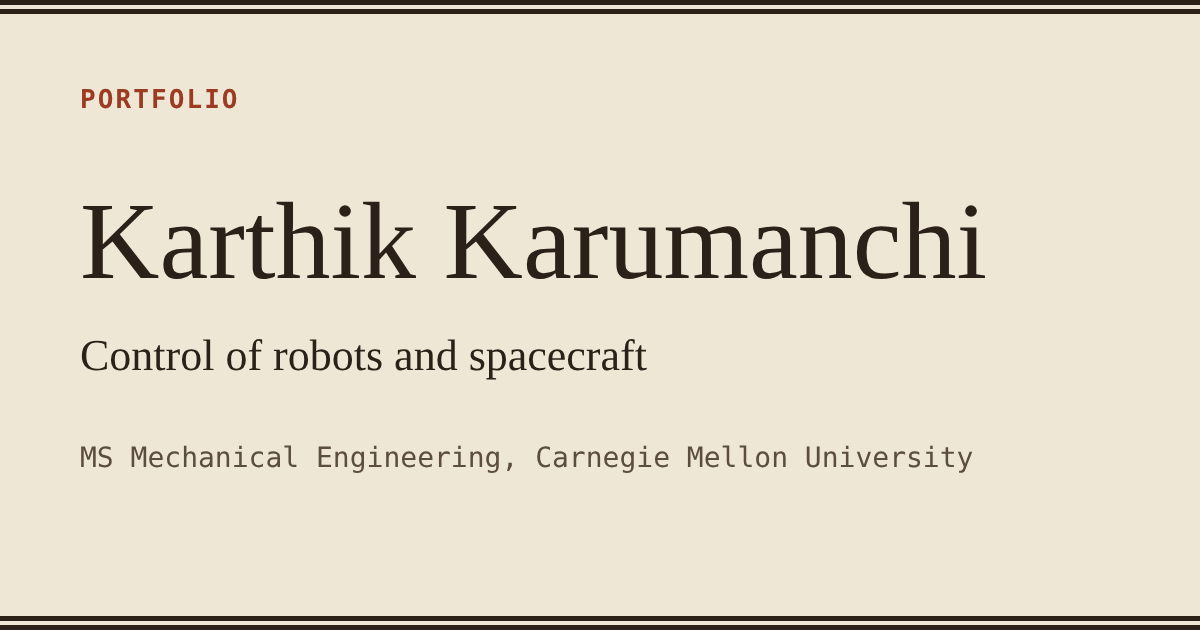
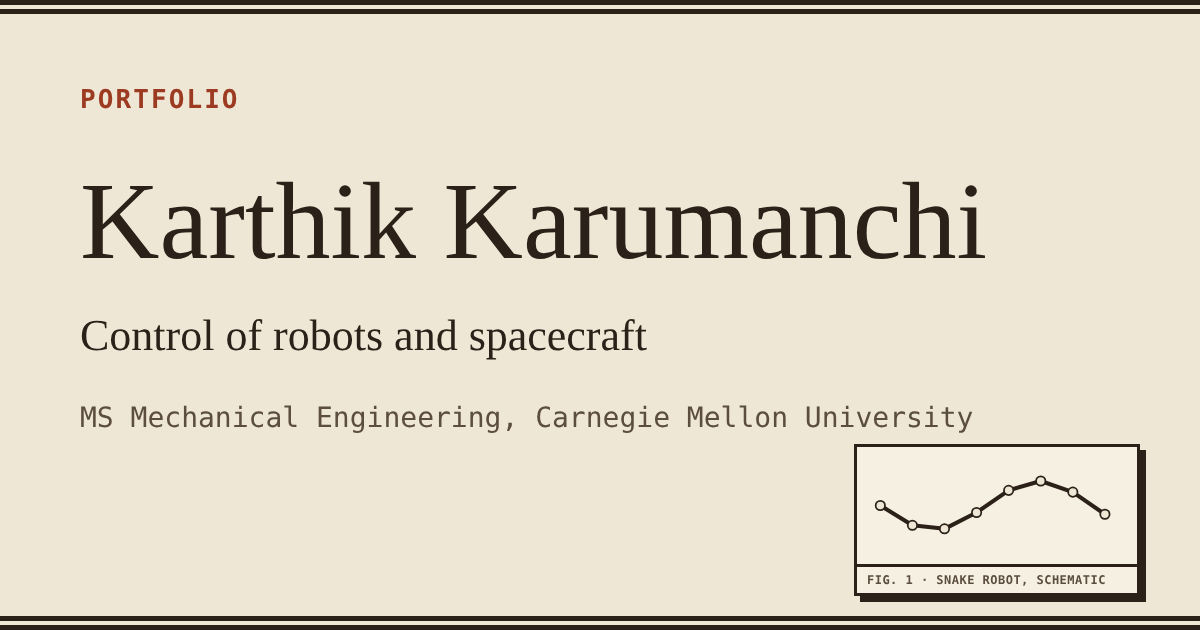
Cycle 16: og.png with snake plate, log declines
Claude-Session: https://claude.ai/code/session_01R4mJEgSoJDCYnE4E7FRXWw

diff --git a/tools/make_og.py b/tools/make_og.py
@@ -1,13 +1,15 @@
 #!/usr/bin/env python3
 """Renders assets/og.png (1200x630 social card) from plain text; no remote assets."""
-import os, sys
+import os, sys, math
 from playwright.sync_api import sync_playwright
 OUT = os.path.join(os.path.dirname(os.path.abspath(__file__)), "..", "assets", "og.png")
+pts = [(40 + i * 55, 100 + 42 * math.sin(i * 0.95)) for i in range(8)]
+SNAKE = "".join(f'<line x1="{a[0]:.0f}" y1="{a[1]:.0f}" x2="{b[0]:.0f}" y2="{b[1]:.0f}" stroke="#2b2118" stroke-width="7" stroke-linecap="round"/>' for a, b in zip(pts, pts[1:])) + "".join(f'<circle cx="{x:.0f}" cy="{y:.0f}" r="8" fill="#efe7d6" stroke="#2b2118" stroke-width="3"/>' for x, y in pts)
 HTML = """<body style="margin:0;width:1200px;height:630px;background:#efe7d6;color:#2b2118;font-family:Georgia,'Times New Roman',serif;box-sizing:border-box;padding:70px 80px;border-top:14px double #2b2118;border-bottom:14px double #2b2118">
 <div style="font:600 26px monospace;letter-spacing:.08em;color:#9c3a22">PORTFOLIO</div>
-<div style="font-size:110px;line-height:1.05;margin-top:70px">Karthik Karumanchi</div>
+<div style="font-size:110px;line-height:1.05;margin-top:50px">Karthik Karumanchi</div>
 <div style="font-size:44px;margin-top:30px">Control of robots and spacecraft</div>
-<div style="font:28px monospace;margin-top:60px;color:#5b4e40">MS Mechanical Engineering, Carnegie Mellon University</div></body>"""
+<div style="font:28px monospace;margin-top:40px;color:#5b4e40">MS Mechanical Engineering, Carnegie Mellon University</div><div style="position:absolute;right:60px;bottom:34px;width:280px;border:3px solid #2b2118;background:#f6f0e2;box-shadow:6px 6px 0 #2b2118"><svg viewBox="0 0 480 200" width="280" height="117" style="display:block">%s</svg><div style="font:600 12px monospace;letter-spacing:.04em;color:#5b4e40;border-top:3px solid #2b2118;padding:6px 10px">FIG. 1 &middot; SNAKE ROBOT, SCHEMATIC</div></div></body>""" % SNAKE
 with sync_playwright() as p:
     b = p.chromium.launch(); pg = b.new_page(viewport={"width": 1200, "height": 630})
     pg.set_content(HTML); pg.screenshot(path=OUT); b.close()

diff --git a/agents/critique-latest.md b/agents/critique-latest.md
@@ -1,65 +1,65 @@
-# Critique, 2026-10-25 (after cycle 14)
+# Critique, 2026-10-25 (cycle 16, reviewing commit 5dd7e20 "Cycle 15")
 
 ## Sources
-My WebFetch call (w3.org SC 2.5.8) was blocked by the permission layer, and I have no search tool in this run. I therefore did not read any source this cycle. The pointers below are from memory and are UNVERIFIED; no finding depends on them. Findings rest on what I measured and saw.
-- WCAG 2.2 SC 2.5.8 Target Size (Minimum) and SC 2.4.11 Focus Not Obscured: https://www.w3.org/WAI/WCAG22/Understanding/target-size-minimum.html
-- web.dev font best practices (self-host, preload, fallback metrics): https://web.dev/articles/font-best-practices
-- MDN `<details>` element (disclosure affordance, accessibility): https://developer.mozilla.org/en-US/docs/Web/HTML/Element/details
-- Topic not covered in earlier cycles: disclosure widgets and staleness of dates (credibility). Earlier cycles covered fonts, contrast, tap targets, SEO basics.
+WebFetch was refused by the permission layer (w3.org focus-appearance page, blocked, not retried) and I have no search tool, so I read NO source this cycle. Pointers below are from memory and UNVERIFIED; no finding depends on them.
+- WCAG 2.2 SC 2.4.7 / 2.4.11 / 2.4.13 focus: https://www.w3.org/WAI/WCAG22/Understanding/focus-appearance.html (blocked)
+- Nielsen Norman Group on portfolios and proof of results (recruiters scan for outcomes): https://www.nngroup.com/ (unverified)
+- web.dev font best practices: https://web.dev/articles/font-best-practices
+Topic this cycle: proof/outcome content on the featured project, and staleness. Earlier cycles covered fonts, contrast, tap targets, SEO basics, disclosure widgets.
 
-Measured: `python3 tools/check.py . agents/shots` ran 13 pages x 3 viewports x 2 themes, all OK (no overflow, tap-target, contrast, alt or h1 failures; 1 to 10 Wix images "not loaded", sandbox). Repo checks: every page still hotlinks wixstatic/filesusr (2 to 9 matches per page, 404 included). `STATUS = ""` in build/build.py. Fonts still load from the Google Fonts stylesheet. assets/ holds only og.png, site.js, style.css. 8 `rel="noopener"` on home. 13 unique titles, sitemap has 12 URLs, robots.txt present. The live site returned 403 to curl from the sandbox proxy, so I could not check it live. I looked at: home phone light and desktop light, About desktop dark, Hasselhoff phone light, Projects tablet light.
+Measured: `git log -1` = 5dd7e20 (Cycle 15). `tools/check.py . agents/shots` ran 13 pages x 3 viewports x 2 themes, every page OK (Wix images "not loaded" is the sandbox). Repo: `STATUS = ""` (build/build.py:253). Wix/filesusr hotlinks on every page (2 to 9 each; 404 has 2). Fonts still from the Google Fonts stylesheet. Aerobraking page has 3 `width=` matches, but its Wix `<img>` tags have none. sitemap 12 URLs, robots.txt names the sitemap, 1 JSON-LD block on home. Live site not checked (proxy). Viewed: home phone and desktop (light), Hasselhoff phone (light), About desktop (dark), Snake robots phone (light). Screenshots use fallback serif because Google Fonts is blocked in the sandbox; typography judged with that caveat.
 
 ## Scores
-- AI-tell: 3/10 (unchanged from last cycle). Moved this cycle: the Start-here row now carries a plate, so row 01 is no longer anatomically identical to rows 02 to 09 (small improvement, would be 2.5 if the plate showed a snake). Not moved: cream paper, serif, terracotta and mono labels is still the "tasteful editorial" template, and rows 02 to 09 are identical title / blurb / index / tag rows. Specific, authored things: the struck-through "three weeks", the 99 s stamp, Fig. N plates with sheet tags, the 404 joke, "Pin-puller for a 3U CubeSat, 2022".
-- Looks good: 6/10. Home is calm and aligned, and the phone first screen is strong. But there is still no photograph; project pages on phone are plate then walls of serif prose; About on desktop has a hollow right column (about 1000 px of empty space below the "On this page" box); the new collapsed-details bar on Hasselhoff looks unfinished (finding 5).
-- SEO: 7/10. Unique titles, descriptions, canonical, OG/Twitter, local absolute og.png, JSON-LD, sitemap, 404 noindex all present. Weak: render-blocking third-party font CSS, hotlinked media means alt text describes images that may vanish, text-only og.png, robots.txt cannot work on a project subpath. Cannot verify offline: live Wix media, Search Console submission, live headers.
-- UX: 6/10. Name, field, strongest project, resume and LinkedIn are all on the first phone screen. Misses: the site's time claims look stale (finding 2), resume is a third-party URL, contact is LinkedIn only, no outcome statements on most projects.
-- Fun and personality: 6/10. Plates, stamps and the 99 s press counter are earned. The remaining 7 of 9 rows have no distinguishing moment; the 404 is still the only place with real voice.
+- AI-tell: 3/10 (unchanged). Moved: the Start-here plate now has a caption strip "Fig. 1 . Snake robot, schematic" (good, it reads as a figure). Not moved: cream paper + serif + terracotta + mono label kit; rows 02 to 09 identical. Authored and specific: struck-through "three weeks", 99 s stamp, Fig./Sheet N of 9 plates, pin-puller line, "no framework" colophon.
+- Looks good: 6/10. Home is calm and aligned. Still no photograph; project pages are plate then prose; Snake robots page (the page the home calls "Start here") is almost bare. The Hasselhoff disclosure bar is now clearly a control (boxed +, "Show"): fixed, and it works.
+- SEO: 7/10. Titles, descriptions, canonical, OG, JSON-LD, sitemap, noindex 404 in place. Weak: render-blocking Google Fonts CSS, hotlinked media with no dimensions, text-only og.png, JSON-LD only on home (I found one block in index.html; per-project CreativeWork not verified for all pages).
+- UX: 6/10. Name, field, resume, LinkedIn on the first phone screen. Misses: stale-looking dates, third-party resume URL, LinkedIn-only contact, and the featured project has no result to read.
+- Fun and personality: 6/10. Plates, stamps, press-to-count 99 s stamp, 404 are earned. Seven of nine pages have no moment of their own.
 
 ## Owner critique (user-critique.md)
-1. Retro, matte: met. Flat paper, ink rules, one hard-shadowed button, double rules, no blur, glow or gradient anywhere I looked. Dark theme is near-black with amber rather than paper-like; taste, not a fault. The collapsed-details bar (finding 5) is the one component that drifts toward "default browser widget with a border".
-2. Not AI-looking: mostly met. Remaining risks: the palette/type kit and the uniform rows 02 to 09 (finding 6).
+1. Retro, matte: met. No blur, glow or gradient; hard-offset button; ink rules. Dark theme is near-black plus amber rather than paper; taste.
+2. Not AI-looking: mostly met; residual risk is the kit and the uniform rows (finding 6).
 
 ## Findings (ranked)
 
-1. Major (robustness / UX). The resume PDF, the main call to action, is a hotlink to a Wix filesusr URL on every page (header, hero, About, every footer). It is the one thing a recruiter needs, and if Wix rotates the URL it fails silently on 13 pages. Fix: owner puts resume.pdf in assets/; designer changes one constant. Declined for 10+ cycles because the sandbox cannot fetch it; still the top risk. Not verifiable offline.
+1. Major (content/UX). The featured project is the thinnest page. Snake robots is "Start here" on home and the lede's research focus, but its page (phone) is: lab and advisor facts, a schematic zigzag, and one paragraph of generic "why snake robots". There is no result, no method sentence, no video, no repo, nothing Karthik did. Home promises "gait-based controllers I implemented"; the page never says which gaits, what was measured, or what happened. A recruiter who follows the one path we point them to hits a dead end after about 1.5 screens. Fix: owner supplies two or three facts (which gaits, what terrain/test, result, status) or a figure/video; designer must not invent. Until then, either demote "Start here" to a project with a real outcome (Aerobraking: 46 orbits, ARGUS, or Sysid) or add a visible "work in progress" honesty line. Judgment call on the demotion; it is an editorial ranking the designer has said belongs to the owner.
 
-2. Major (UX / credibility). The site never says what Karthik is doing now, and its dates look stale. About says his Master's "is at Carnegie Mellon University (2023 - 2025)" and the Education entry says "2023 - 2025"; today is 25 Oct 2026. A reader cannot tell if he has graduated, is still enrolled, or is available, and the tense-neutral rewording hides the question rather than answering it. The hidden STATUS slot exists. Needs one owner sentence (graduated? where now? open to roles?). The designer must not invent it, but it should be named in the owner-facing summary as the highest-value content gap.
+2. Major (UX/credibility). No statement of what Karthik is doing now; dates look stale. About says the Master's "is at Carnegie Mellon University (2023 - 2025)"; today is 25 Oct 2026. Reader cannot tell graduated, enrolled or open to roles. STATUS slot is empty. Owner needs one sentence. Highest-value content gap; open since cycle 1.
 
-3. Major (looks good, score 6). No photograph or real result image on any page; every Wix figure drops out on failure, so project pages on phone read as plate then prose. For a robotics portfolio the first expectation is to see the robot. The plates are authored and honest but schematic. Fix needs owner media (one image per project in assets/ with real width/height). Until then, the cheapest authored change that needs no new facts: give the plates a second measured element drawn from facts already on each page.
+3. Major (robustness). Resume PDF, the main CTA, is a hotlink to a Wix filesusr URL in the header, hero, About and every footer (13 pages). One rotation breaks it everywhere, silently. Owner drops resume.pdf into assets/. Not verifiable offline.
 
-4. Major (performance / SEO). Google Fonts is still a render-blocking third-party stylesheet (index.html), with no fallback-metric tuning. Self-hosting two WOFF2 files with `font-display: swap` plus preload is the standard fix (web.dev, unverified link). Blocked by the sandbox; owner to supply the files. Preconnect already present.
+4. Major (looks good, score 6). No photograph or real result image anywhere; Wix figures drop out on failure, so most project pages read as plate plus prose. A robotics portfolio is expected to show the robot. Needs owner media in assets/ with real width and height.
 
-5. Major (looks good / UX, new this cycle). The `details.impl` disclosure on Hasselhoff (phone) reads "Implementation detail: design and state machine" in bold mono, wrapped on two lines, between a heavy top rule and a hairline. There is no visible marker (triangle or +/-), so it reads as a heading, not as something to open. This is the only place the mono bold weight is used as a button label, and it is visually louder than the Testing section above it. Why it matters: undiscoverable disclosure hides content (MDN, unverified); it also looks unfinished. Fix: keep the native element, add a visible marker via `summary::before` ("+" / "-" in the tan accent), set the label to normal-weight serif or the 12 px mono label style used elsewhere, shorten it to "Design and state machine (open)" so it stays on one line at 390 px. Check the same component on any other page that uses it.
+5. Major (performance/SEO). Google Fonts stylesheet is render-blocking and third-party; no fallback metrics. Self-host two WOFF2 with font-display: swap and preload. Needs owner files; sandbox cannot fetch.
 
-6. Major (AI-tell, kit). Rows 02 to 09 on home and Projects are identical in anatomy (title, blurb, index, tag); the only variation is stamps on three rows. A human-made index would let the uneven facts set the layout. Alternative using existing facts only: show the same plate thumbnail on every row (all local and cannot fail) at the row's right edge on desktop, or drop it for all and keep row 01 plain; as it stands, one plate on one row reads as a "featured card", a template pattern. Also the Start-here plate on phone is a plain zigzag line with circles and a dashed arrow; it does not say "snake" and could be any signal. Add a caption-sized label or draw module links so it is recognisable.
+6. Major (AI-tell: kit). Rows 02 to 09 are identical in anatomy, and now only row 01 has a plate, which reads as a "featured card" (template pattern). Either give every row its plate thumbnail at the right edge on desktop (local, cannot fail) or accept uneven rows deliberately. The designer's cycle-15 reasoning (uniform in a new way, longer phone home) is fair for phone; propose plates on desktop/tablet only. Taste.
 
-7. Minor (looks good). About desktop: the 760 px column plus the "On this page" box leave a large empty right side from Skills downward in both themes; it reads as a plain CV. Authored option: set the dates (2023 - 2025, May - Aug 2024) in a left margin column on desktop only so the page uses its width, as in a printed CV. Taste; the designer has declined this as a large rewrite, which is fair, but the void is measurable (right 28% of the frame empty for roughly 2000 px).
+7. Minor (UX). Hasselhoff page: the bar "Design and state machine / Show" is good now, but the hidden content (Design Methodology, State Machine Logic) is the page's only engineering substance; hiding it by default means the page's visible text is a UX narrative and a "not yet tested in a large body of water" caveat. Consider whether a recruiter wants that behind a click; the first sentence of the hidden content could sit above the fold of the details. Taste.
 
-8. Minor (UX). Contact is LinkedIn only. The owner has set the no-public-email constraint, so this is flagged only; consider whether the owner will approve a non-scraped alternative.
+8. Minor (content). Education/About carry "GPA: 4.0 / 4.0" for a degree dated through 2025; consistent with finding 2. Also "Pin-puller for a 3U CubeSat, 2022" on home is under "Built" while About says "Implemented"; fine. No action beyond finding 2.
 
-9. Minor (UX). Home and Projects now show the same nine rows with only filters and thumbnails differing. A visitor who clicks "See the projects" gets a page that looks like the one they left. Suggestion: on home show Start here plus the three stamped rows and link "All nine projects"; that also shortens the phone home page (roughly 6000 px tall). Taste/IA; the designer has argued the opposite, so label it a judgment call.
+9. Minor (layout). About desktop: right column holds only the "On this page" box; from Skills down (about 2000 px) the right 28% is empty in both themes. Reads as a plain CV. Dates in a left margin column on desktop would use width. Declined as large rewrite; the void is real. Taste.
 
-10. Minor (SEO). og.png is text only (40 KB). A social card carrying one plate would be more distinctive in link previews and is repo-local. Owner can verify the card in a share preview; I could not offline.
+10. Minor (UX). Home and Projects list the same nine rows. Clicking "See the projects" lands on a near copy. Judgment call: home could show Start-here plus stamped rows and link "All nine projects". Phone home is about 6100 px tall (measured from screenshot).
 
-11. Minor (robustness). Nine pages' worth of Wix hotlinks plus `.thumb` images on Projects (9 not loaded in sandbox) mean the page's LCP/CLS behaviour with real images is unknown: no width/height attributes were found for the Wix figures (designer states dimensions unknown). Risk of layout shift when images arrive late; cannot be measured offline.
+11. Minor (UX). Contact is LinkedIn only (owner constraint, flagged only). On phone, footer "To get in touch, message me on LinkedIn" is the only contact sentence.
 
-12. Minor (a11y / readability). The 12 px mono labels ("FOR THE RECORD", "START HERE", tags) pass the automated contrast check but are small on the grainy paper ground; the tags (muted tan on cream) are the weakest. Taste; raise tags to 13 px or darken one step.
+12. Minor (SEO). og.png is text only; a plate would make a more distinctive share card and is repo-local. Cannot verify previews offline.
 
-13. Nit (fun). Most of the nine pages have no personality beyond the plate. The designer rejects extra gags as "taste" and nothing is invented; I accept it unless the owner asks. One idea grounded in facts already present: a small printed "colophon" line on each plate sheet is already there; leave it.
+13. Minor (CLS risk). Wix `<img>` tags have no width/height (verified in aerobraking-drl.html), so late-loading figures shift layout. Cannot measure offline; needs dimensions from owner files.
 
-14. Nit (a11y). Check that the pressable Hasselhoff stamp is reachable by keyboard and announces its state change; I did not verify this from the screenshots.
+14. Nit (a11y). Hasselhoff stamp keyboard support was added; I did not drive it with a keyboard in this run (screenshots only). The designer states focus ring and blur-stop are in place; verify with a real tab-through before closing.
 
-15. Nit (content). The Hasselhoff page lead and the row blurb no longer repeat the joke (good); but the page still has "THE QUESTION" repeating what the lead already says ("How do we develop a submarine for underwater target detection?"). It is owner/original wording; leave.
+15. Nit (fun). Seven of nine project pages have no moment beyond plate and stamp. Facts already in repo that could carry one: Aerobraking "target reached in 46 orbits / terminal error 8.4 km", Tricycle "target speed 12 km/h", Tethered "500 m". A single plain aside per page, only where the page already states the fact. Designer has declined as taste; acceptable unless owner asks.
 
 ## Good, do not regress
-- Struck-through "three weeks" in a marker highlight (home and About).
-- Fig. N plates with sheet tags and honest "not to scale" captions; they are repo-local and cannot hotlink-fail.
-- Two stamp types only; the pressable 99 s stamp.
-- Plain lede with real specifics, no slogans; the "For the record" ledger with the pin-puller line.
-- Phone first screen: name, one-sentence field, resume and LinkedIn visible without scrolling.
-- Failed-image collapse for figures, captions, thumbnails and the portrait; no empty boxes in any screenshot.
-- Double rules, flat surfaces, hard-shadow button; no gradients, blur or glow.
+- Struck-through "three weeks" in marker highlight (home, About).
+- Fig. N plates with sheet tags, honest "schematic / NTS" captions; repo-local and robust.
+- Start-here plate now captioned "Fig. 1 . Snake robot, schematic".
+- Two stamp types only; pressable 99 s stamp.
+- Hasselhoff disclosure: boxed +, serif label, "Show" word, native details.
+- Plain lede, no slogans; "For the record" ledger; footer "no framework" line.
+- Phone first screen: name, field, resume, LinkedIn without scrolling.
 
 ## Verdict
-The site has an authored point of view (print-era plates, stamps, a real-fact lede) and no longer reads as a generated template; the remaining AI-tell is the cream/serif/terracotta kit and nine same-shaped rows. It is not yet a good portfolio for a 30-second reader, for reasons the designer cannot fix alone: the resume is a third-party link, nothing says what he is doing now while the dates read as stale (it is October 2026 and the Master's is listed as 2023 - 2025), and there is not one photograph. Within the designer's reach: the new Hasselhoff disclosure needs a visible marker and a shorter label; row 01's plate should say "snake" and the rows should be treated consistently; and the About page should use its width. Scores: AI-tell 3, looks good 6, SEO 7, UX 6, fun 6.
+Design hygiene is now close to saturated: the checks pass, the retro/matte direction is coherent, the AI-tell score is low, and the cycle-15 disclosure fix landed. What is left is content, not layout. The strongest remaining defect is that the one project the site tells a visitor to start with has almost nothing on it, followed by the unanswered "what is he doing now" question in a year-old date range, a third-party resume link, and zero photographs. All of these need owner input (facts, files, media); further cosmetic cycles will yield little. Recommended owner-facing ask: one status sentence, resume.pdf, two or three real facts or a result for the snake-robot page, and one photo per project.

diff --git a/agents/LOG.md b/agents/LOG.md
@@ -298,3 +298,13 @@ Declined:
 - 7 About date margin column: large rewrite; About has a portrait slot with two layouts. 9 trimming home to four rows: judgment call, home is the full index by design. 13, 15: taste / owner wording.
 Verification: tools/check.py, 13 pages x 3 viewports x 2 themes, all OK; viewed Hasselhoff and home on phone.
 Next attack: owner blockers (resume, status, photos, fonts).
+
+## 2026-10-25: cycle 16 response (designer)
+Fixed:
+- 12 og.png now carries the Fig. 1 snake-robot schematic plate (hard shadow, caption strip), drawn from the same geometry as the site plate; tools/make_og.py updated, repo-local, no text overlap (viewed).
+Declined:
+- 1 snake page content, 2 status / stale dates (STATUS slot still empty), 3 resume.pdf, 4 photographs, 5 self-hosted WOFF2, 13 image dimensions, 11 contact: need owner facts or files; nothing invented. Demoting "Start here" or adding a "work in progress" line would assert facts about status the repo does not hold; editorial ranking is the owner's.
+- 6 desktop-only plates on all rows: eight more plates need authored schematics per project and would make the list uniform in a new way; row 01 is captioned as a figure, not a card. 10 trimming home: home is the full index by design (documented cycle 15). 7 Hasselhoff detail stays collapsed: summary is explicit ("Design and state machine, Show") and text is in the HTML. 9 About date column: large rewrite, taste. 15 asides: taste, owner has not asked (facts already stated on each page).
+- 14 keyboard: stamp and details are native/ARIA from cycle 15; no regression in check.py (all OK); not a real tab-through here.
+Verification: tools/check.py, 13 pages x 3 viewports x 2 themes, all OK (78 lines). Sitemap lastmod bumped by build.
+Next attack: owner blockers (status sentence, resume.pdf, snake facts, photos, WOFF2).
